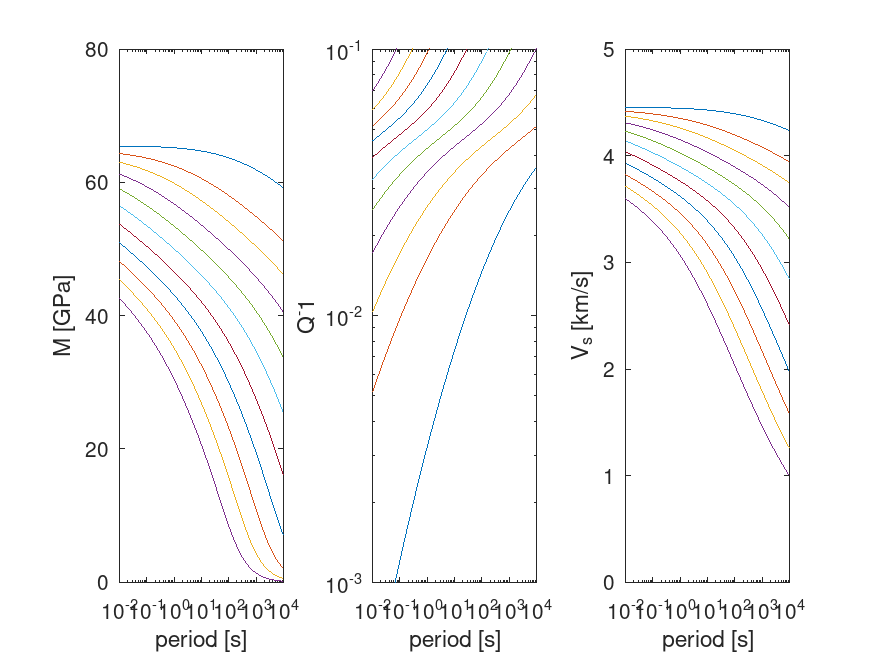
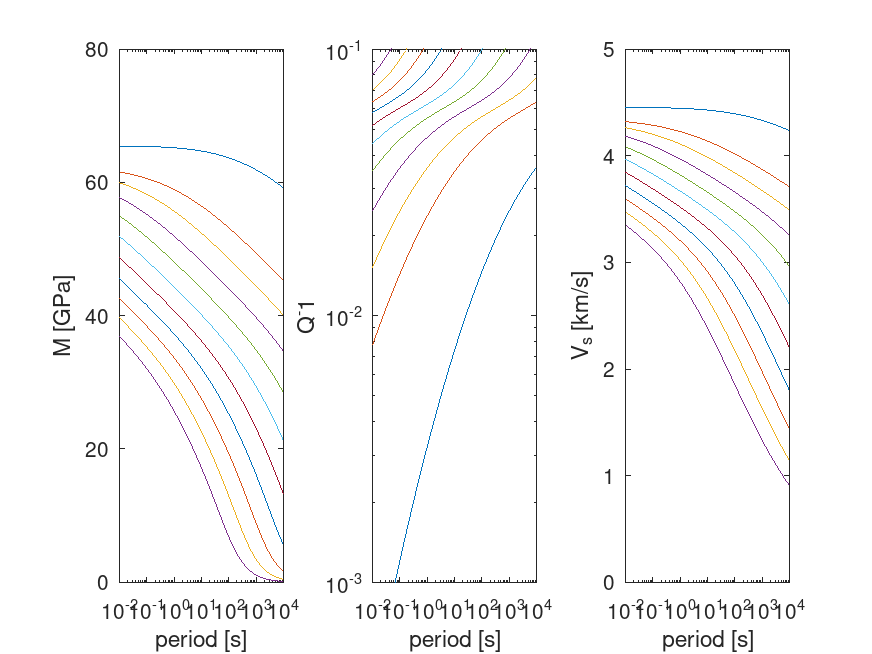
add vbr_categorical_colormap, update YT24 lab example

diff --git a/Projects/1_LabData/1_Attenuation/FitData_YT24.m b/Projects/1_LabData/1_Attenuation/FitData_YT24.m
@@ -33,38 +33,18 @@ function VBRc_results = FitData_YT24()
 
 end
 
-function rgb = get_rgb(i_exp, Tn, Tn_min, dT)
-
-%    rgba = [
-%           0  , 0.4470  , 0.7410;
-%           0.8500 ,  0.3250  , 0.0980;
-%           0.9290 ,  0.6940  , 0.1250;
-%           0.4940 ,  0.1840  , 0.5560;
-%           0.4660 ,  0.6740  , 0.1880;
-%           0.3010 ,  0.7450  , 0.9330;
-%           0.6350 ,  0.0780  , 0.1840;
-%           0  , 0.4470  , 0.7410;
-%           0.8500 ,  0.3250  , 0.0980;
-%           0.9290 ,  0.6940  , 0.1250;
-%           0.4940 ,  0.1840  , 0.5560;
-%           0.4660 ,  0.6740  , 0.1880;
-%           0.3010 ,  0.7450  , 0.9330;
-%           0.6350 ,  0.0780  , 0.1840;
-%    ];
-%    rgba(8:end,:) = rgba(8:end,:) * 0.5;
-%
-%    rgb = rgba(i_exp,:);
-    clr_sc = (Tn - Tn_min) / dT;
-    clr_sc(clr_sc > 1) = 1.0;
-    clr_sc(clr_sc < 0) = 0.0;
-    rgb = [clr_sc, 0., 1-clr_sc];
-end
 
 function VBRc_results = plot_fig7(full_data_dir);
 
     figure('Position', [10 10 500 600],'PaperPosition',[0,0,7,7*6/5],'PaperPositionMode','manual');
-    ax_1 = subplot(2,1,1);
-    ax_2 = subplot(2,1,2);
+    yheight = 0.4;
+    xpos = 0.1;
+    ypos = 0.1;
+    xwidth = 0.6;
+    ax_Q = axes('position', [xpos, ypos, xwidth, yheight]);
+    ax_E = axes('position', [xpos, ypos + yheight, xwidth, yheight]);
+    leg_pos = [xpos+xwidth+0.05, ypos, 0.2, yheight];
+
 
     load(fullfile('data','YT16','table3.mat'));
     visc_data.table3_H=table3_H.table3_H;
@@ -74,36 +54,9 @@ function VBRc_results = plot_fig7(full_data_dir);
     n_exps = numel(combined_data);
 
     freq_range = logspace(-6,9,100);
-    T_sc_min = 0.889;
-    T_sc_max = 1.015;
-    dT_rng = T_sc_max - T_sc_min;
     Tsol = 43.0;
-    % first plot experimental results
-    mod_fac = 1 / ( 1 - 0.031);  % systematic error correction
-    for i_exp = 1:n_exps
-        data = combined_data(i_exp);
 
-        rgb = get_rgb(i_exp, data.Tn, T_sc_min, dT_rng);
-        if data.Tn >= 1
-            mrkr = 'o';
-            mrkr_sz = 3;
-        else
-            mrkr = '.';
-            mrkr_sz=10;
-        end
-        Tnlab = num2str(data.Tn, 3+(data.Tn>=1));
-        subplot(2,1,1)
-        hold_if(i_exp)
-        semilogx(data.f_normed, data.E_normed * mod_fac, mrkr, 'markersize', mrkr_sz, 'color', rgb, 'displayname', Tnlab)
-        subplot(2,1,2)
-        hold_if(i_exp)
-        loglog(data.f_normed, data.Qinv, mrkr, 'markersize', mrkr_sz, 'color', rgb, 'displayname', Tnlab)
-    end
-    subplot(2,1,2)
-    leg = legend('Location', 'eastoutside', 'Orientation', 'vertical', ...
-                 'AutoUpdate','off','title','T_n','NumColumns',1);
-
-    % now get VBRc results
+    % get VBRc results
     VBRc_results = struct();
     for i_exp = 1:n_exps
         data = combined_data(i_exp);
@@ -117,7 +70,7 @@ function VBRc_results = plot_fig7(full_data_dir);
         VBR.in.viscous.methods_list={'xfit_premelt'};
         VBR.in.anelastic.methods_list={'xfit_premelt'};
         VBR.in.anelastic.xfit_premelt.include_direct_melt_effect = 1.0;
-        VBR.in.anelastic.xfit_premelt.tau_pp=2*1e-5;
+        % VBR.in.anelastic.xfit_premelt.tau_pp=2*1e-5;
         % plotting with correction for poro-elastic effect applied, so
         % set effect to 0 here.
         VBR.in.anelastic.xfit_premelt.poro_Lambda = 0.0;
@@ -156,47 +109,76 @@ function VBRc_results = plot_fig7(full_data_dir);
         results.f_normed = VBR_bysamp.out.anelastic.xfit_premelt.f_norm;
         results.E_normed = results.E / Gu_o;
         results.T = T;
+        results.Tn = VBR.in.SV.T_K  / VBR.in.SV.Tsolidus_K ;
         results.VBR = VBR_bysamp;
         VBRc_results(i_exp) = results;
     end
 
 
     for i_exp = 1:n_exps
-
+        if i_exp == 2
+            linesty = '--';
+        else
+            linesty = '-';
+        end
         results = VBRc_results(i_exp);
-        rgb = get_rgb(i_exp, (results.T +273)/(Tsol+273), T_sc_min, dT_rng);
-        % and plot
-        subplot(2,1,1)
+        rgb = vbr_categorical_color(i_exp);
+        Tnlab = num2str(results.Tn, 3+(results.Tn>=1));
+        axes(ax_E)
         hold_if(i_exp)
-
-        semilogx(results.f_normed, results.E_normed ,'color', rgb)
-        subplot(2,1,2)
+        semilogx(results.f_normed, results.E_normed ,'color', rgb, ...
+                 'linewidth', 1.5, 'linestyle', linesty)
+        axes(ax_Q)
         hold_if(i_exp)
-        loglog(results.f_normed, results.Qinv , 'color', rgb)
+        loglog(results.f_normed, results.Qinv , 'color', rgb, ...
+              'linewidth', 1.5, 'displayname', Tnlab, 'linestyle', linesty)
     end
 
-    subplot(2,1,1)
+    % plot experimental results
+    delta_systematic = 0.031;
+
+    for i_exp = 1:n_exps
+        data = combined_data(i_exp);
+        dporo = data.dporo * data.phi;
+        mod_fac = 1 / ( 1 - delta_systematic) / (1 - dporo);  % correction factor
+        rgb = vbr_categorical_color(i_exp);
+        if data.Tn >= 1
+            mrkr = 'o';
+            mrkr_sz = 5;
+            mkr_fc = 'w';
+        else
+            mrkr = '.';
+            mrkr_sz=15;
+            mkr_fc = rgb;
+        end
+        Tnlab = num2str(data.Tn, 3+(data.Tn>=1));
+        axes(ax_E)
+        hold_if(i_exp)
+        semilogx(data.f_normed, data.E_normed * mod_fac, mrkr, ...
+                 'markersize', mrkr_sz, 'color', rgb, 'displayname', Tnlab, ...
+                 'MarkerFaceColor', mkr_fc)
+        axes(ax_Q)
+        hold_if(i_exp)
+        loglog(data.f_normed, data.Qinv, mrkr, 'markersize', mrkr_sz, ....
+               'color', rgb, 'displayname', Tnlab, 'MarkerFaceColor', mkr_fc)
+    end
+    axes(ax_Q)
+    leg = legend('Location', 'eastoutside', 'Orientation', 'vertical', ...
+                 'AutoUpdate','off','title','T_n','NumColumns',1);
+
+    axes(ax_E)
     xticklabels([])
     xlim([1e-2,1e9])
     ylim([0,1.1])
     xlabel('f / f_M')
     ylabel("E/E_u")
 
-    subplot(2,1,2)
+    axes(ax_Q)
     xlim([1e-2,1e9])
     ylim([1e-3,2])
     xlabel('f / f_M')
     ylabel("Q^-^1")
 
-    ax2pos = get(ax_2, 'Position');
-    ax1pos = get(ax_1, 'Position');
-
-    ax1pos(2) = ax2pos(2) + ax2pos(4); % use the same x axis
-    set(ax_1, 'Position', ax1pos)
-    set(ax_2, 'Position', ax2pos)
-
-    leg_pos = get(leg, 'Position');
-    leg_pos(2) = ax2pos(2);
     set(leg, 'Position', leg_pos)
 
     saveas(gcf,'./figures/YT24_MQ.png')

diff --git a/vbr/support/vbr_categorical_cmap_array.m b/vbr/support/vbr_categorical_cmap_array.m
@@ -1,0 +1,39 @@
+function x = vbr_categorical_cmap_array()
+    %%%%%%%%%%%%%%%%%%%%%%%%%%%%%%%%%%%%%%%%%%%%%%%%%%%%%%%%%%%%%%%%%%%%%%%%%%%%
+    %
+    % x = vbr_categorical_cmap_array()
+    %
+    % return an array of rgb values for a categorical colormap.
+    %
+    % colormap was generated with http://vrl.cs.brown.edu/color , see:
+    %  Gramazio et al., 2017, IEEE Transactions on Visualization and Computer
+    %      Graphics, "Colorgorical: creating discriminable and preferable color
+    %      palettes for information visualization"
+    %
+    %%%%%%%%%%%%%%%%%%%%%%%%%%%%%%%%%%%%%%%%%%%%%%%%%%%%%%%%%%%%%%%%%%%%%%%%%%%%
+    x  = [get_cat_rgb(88,181,225); ...
+            get_cat_rgb(55,9,35); ...
+            get_cat_rgb(65,210,107); ...
+            get_cat_rgb(177,20,120); ...
+            get_cat_rgb(175,211,90); ...
+            get_cat_rgb(46,14,186); ...
+            get_cat_rgb(120,140,59); ...
+            get_cat_rgb(67,70,171); ...
+            get_cat_rgb(46,236,230); ...
+            get_cat_rgb(0,42,51); ...
+            get_cat_rgb(253,199,204); ...
+            get_cat_rgb(104,60,0); ...
+            get_cat_rgb(192,104,252); ...
+            get_cat_rgb(250,209,57); ...
+            get_cat_rgb(64,96,135); ...
+            get_cat_rgb(35,137,16); ...
+            get_cat_rgb(242,49,252); ...
+            get_cat_rgb(55,78,7); ...
+            get_cat_rgb(161,143,248); ...
+            get_cat_rgb(247,147,2)];
+    
+end
+
+function rgb = get_cat_rgb(r, g, b)
+    rgb = [r, g, b] / 255;
+end

diff --git a/Projects/1_LabData/1_Attenuation/functions/YT24_load_fig7_combined_data.m b/Projects/1_LabData/1_Attenuation/functions/YT24_load_fig7_combined_data.m
@@ -59,6 +59,7 @@ function single_exp = extract_single_experiment(current_run, sample_info, iT, Ts
     single_exp.dg_um = sample_info.dg_um;
     single_exp.sample_id = sample_id;
     single_exp.rho_kgm3 = sample_info.rho_kgm3;
+    single_exp.dporo = (phi > 0) * sample_info.dporo;
 end
 
 function [run_data, sample_info] = load_sample_data(sample_number, full_data_dir)
@@ -84,6 +85,7 @@ function sample_data = get_sample_info(sample_number)
         sample_data.eta_r = 1061*1e12;
         sample_data.first_Tcycle_index_start_stop = [2, 9];
         sample_data.nT = 8;
+        sample_data.dporo = 0.135;
     elseif sample_number == 42
         sample_data.dg_um = 46.3;
         sample_data.rho_kgm3 = 1.0111;
@@ -91,6 +93,7 @@ function sample_data = get_sample_info(sample_number)
         sample_data.eta_r = 132 * 1e12;
         sample_data.first_Tcycle_index_start_stop = [2, 8];
         sample_data.nT = 7;
+        sample_data.dporo = 0.0585;
     elseif sample_number == 41
         sample_data.dg_um = 34.2;
         sample_data.rho_kgm3 = 1.0111;
@@ -98,6 +101,7 @@ function sample_data = get_sample_info(sample_number)
         sample_data.eta_r = 1433 * 1e12;
         sample_data.first_Tcycle_index_start_stop = [3, 10];
         sample_data.nT = 8;
+        sample_data.dporo = 0.0178;
     end
 
 end

diff --git a/vbr/testing/test_utilities_vbr_categorical_cmap.m b/vbr/testing/test_utilities_vbr_categorical_cmap.m
@@ -1,0 +1,36 @@
+function TestResult = test_utilities_vbr_categorical_cmap()
+%%%%%%%%%%%%%%%%%%%%%%%%%%%%%%%%%%%%%%%%%%%%%%%%%%%%%%%%%%%%%%%%%%%%%%%%%%%%%%%%
+% TestResult = test_utilities_vbr_categorical_cmap()
+%
+% test the categorical colormap
+%
+% Parameters
+% ----------
+% none
+%
+% Output
+% ------
+% TestResult  struct with fields:
+%           .passed         True if passed, False otherwise.
+%           .fail_message   Message to display if false
+%%%%%%%%%%%%%%%%%%%%%%%%%%%%%%%%%%%%%%%%%%%%%%%%%%%%%%%%%%%%%%%%%%%%%%%%%%%%%%%%
+
+    TestResult.passed = true;
+    TestResult.fail_message = '';
+
+    x = vbr_categorical_cmap_array();
+    if max(x) > 1
+        msg = 'colormap rgb values contain value > 1';
+        TestResult.passed = false;
+        TestResult.fail_message = msg;
+    end
+
+    rgb_1 = vbr_categorical_color(1);
+    rgb_n1 = vbr_categorical_color(numel(x)+1);
+    if all(rgb_1==rgb_n1) == 0
+        msg = 'categorical colormap sample incorrectly wrapped';
+        TestResult.passed = false;
+        TestResult.fail_message = msg;
+    end
+
+end

diff --git a/vbr/support/vbr_categorical_color.m b/vbr/support/vbr_categorical_color.m
@@ -1,0 +1,23 @@
+function rgb = vbr_categorical_color(iclr)
+    %%%%%%%%%%%%%%%%%%%%%%%%%%%%%%%%%%%%%%%%%%%%%%%%%%%%%%%%%%%%%%%%%%%%%%%%%%%%
+    %
+    %  rgb = vbr_categorical_color(iclr)
+    %
+    %  return a single rgb value from the vbr_categorical_cmap_array.
+    %
+    % Parameters
+    % ----------
+    % iclr
+    %     the index to sample from the colormap. Will be wrapped to be within
+    %     the bounds of the colormap.
+    %
+    % Output
+    % ------
+    % rgb
+    %     3-element array of floating point rgb values in (0,1) range
+    %%%%%%%%%%%%%%%%%%%%%%%%%%%%%%%%%%%%%%%%%%%%%%%%%%%%%%%%%%%%%%%%%%%%%%%%%%%%
+    rgbs = vbr_categorical_cmap_array();
+    ncolors = size(rgbs)(1);
+    iclr = ncolors - mod(iclr, ncolors);
+    rgb = rgbs(iclr, :);
+end

diff --git a/vbr/testing/test_vbrcore_007_G_K_TP.m b/vbr/testing/test_vbrcore_007_G_K_TP.m
@@ -70,4 +70,5 @@ function VBR = get_init_VBR()
   VBR.in.elastic.methods_list={'anharmonic';'anh_poro';};
   VBR.in.anelastic.methods_list={'eburgers_psp';'andrade_psp';'xfit_mxw'};
   VBR.in.viscous.methods_list={'HZK2011'};
+  VBR.in.elastic.quiet = 1;
 end

diff --git a/docs/_pages/vbrmethods/anel/xfitpremelt.md b/docs/_pages/vbrmethods/anel/xfitpremelt.md
@@ -116,3 +116,7 @@ The Project script, `Projects/1_LabData/1_Attenuation/FitData_YT16.m` calculates
 !['mxwPMLab'](/vbr/assets/images/xfitpremelt1.png){:class="img-responsive"}
 
 Data are from figure 10 of Yamauchi and Takei (2016) and are not included in the repository at present.
+
+The Project script,  `Projects/1_LabData/1_Attenuation/FitData_YT24.m` reproduces figure 7 from Yamauchi and Takei (2024).
+
+!['mxwPMLab'](/vbr/assets/images/xfitpremelt_melt_effects.png){:class="img-responsive"}

diff --git a/docs/_pages/examples/CB_014_xfit_premelt_extended.md b/docs/_pages/examples/CB_014_xfit_premelt_extended.md
@@ -1,3 +1,14 @@
+---
+permalink: /examples/CB_014_xfit_premelt_extended/
+title: ""
+---
+
+# CB_014_xfit_premelt_extended.m
+## output figures
+
+!['CB_014_xfit_premelt_extended'](/vbr/assets/images/CBs/CB_014_xfit_premelt_extended.png){:class="img-responsive"}
+## contents
+```matlab
 %%%%%%%%%%%%%%%%%%%%%%%%%%%%%%%%%%%%%%%%%%%%%%%%%%%%%%%%%%%%%%%%%%%%%%%%%%%
 % CB_014_xfit_premelt_extended.m
 %
@@ -72,3 +83,4 @@
   saveas(gcf,'./figures/CB_014_xfit_premelt_extended.png')
 
 
+```

diff --git a/docs/_pages/examples/vbrcore.md b/docs/_pages/examples/vbrcore.md
@@ -18,3 +18,4 @@ Simple "Cookbook" (CB) scripts demonstrating various use cases of the VBR Calcul
 * `CB_011_meltEffects.m` [link](/vbr/examples/CB_011_meltEffects/)
 * `CB_012_simplecrust.m` [link](/vbr/examples/CB_012_simplecrust/)
 * `CB_013_G_K_inputs.m` [link](/vbr/examples/CB_013_G_K_inputs/)
+* `CB_014_xfit_premelt_extended.m` [link](/vbr/examples/CB_014_xfit_premelt_extended/)
